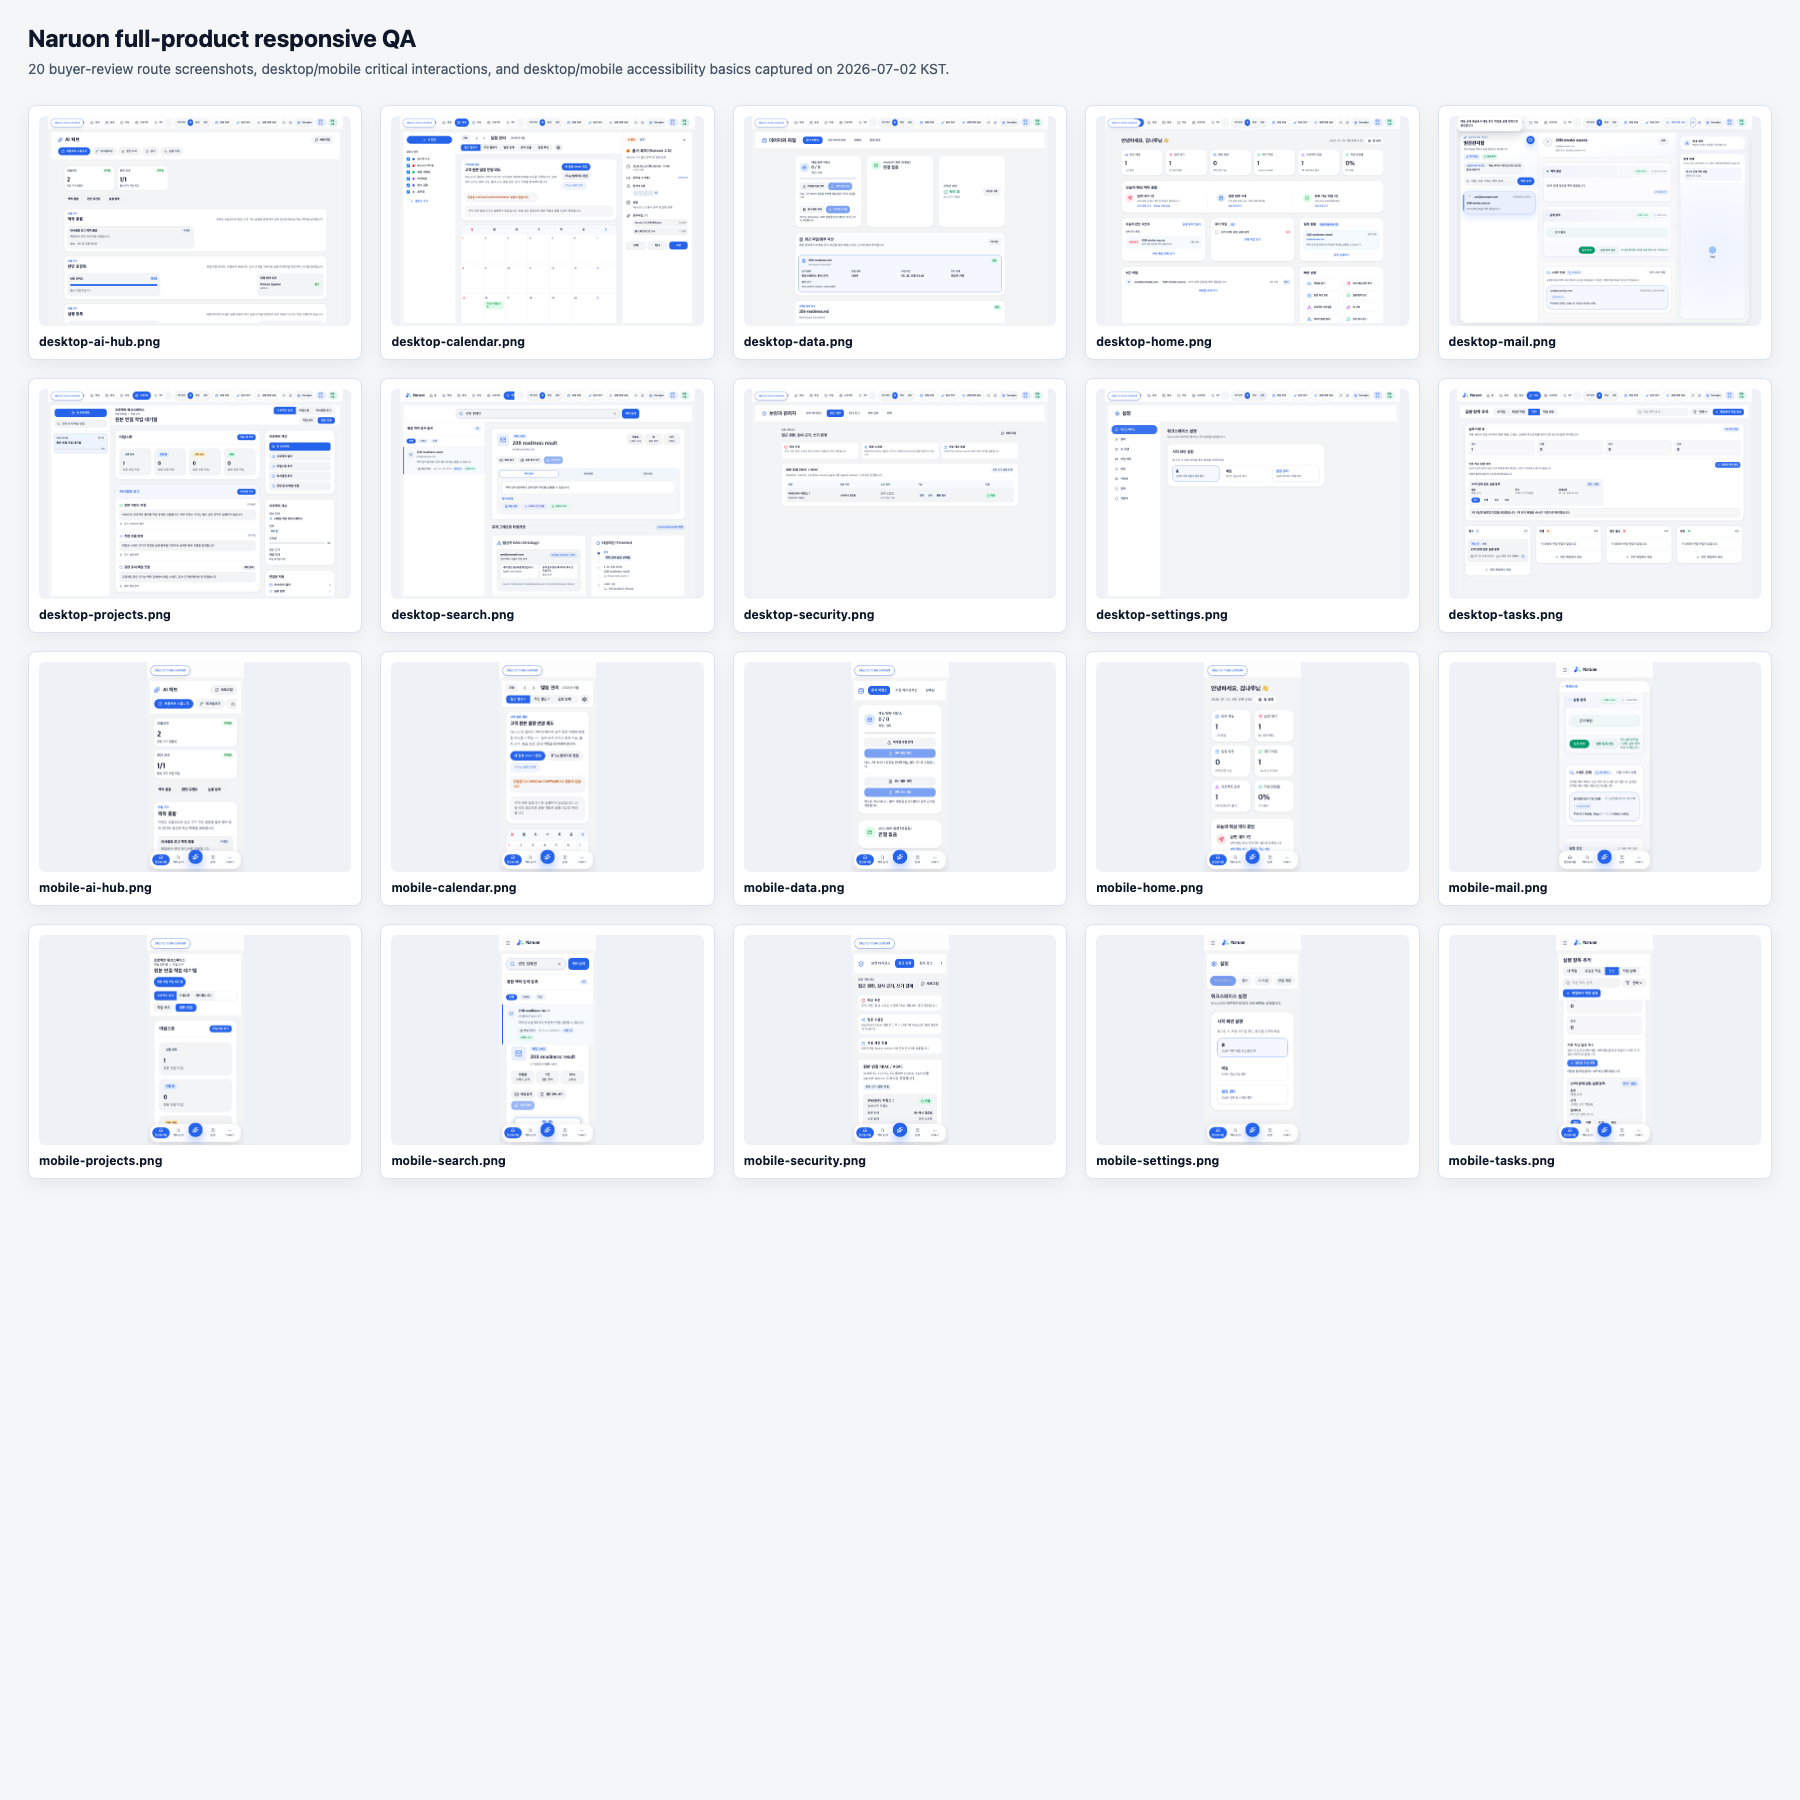
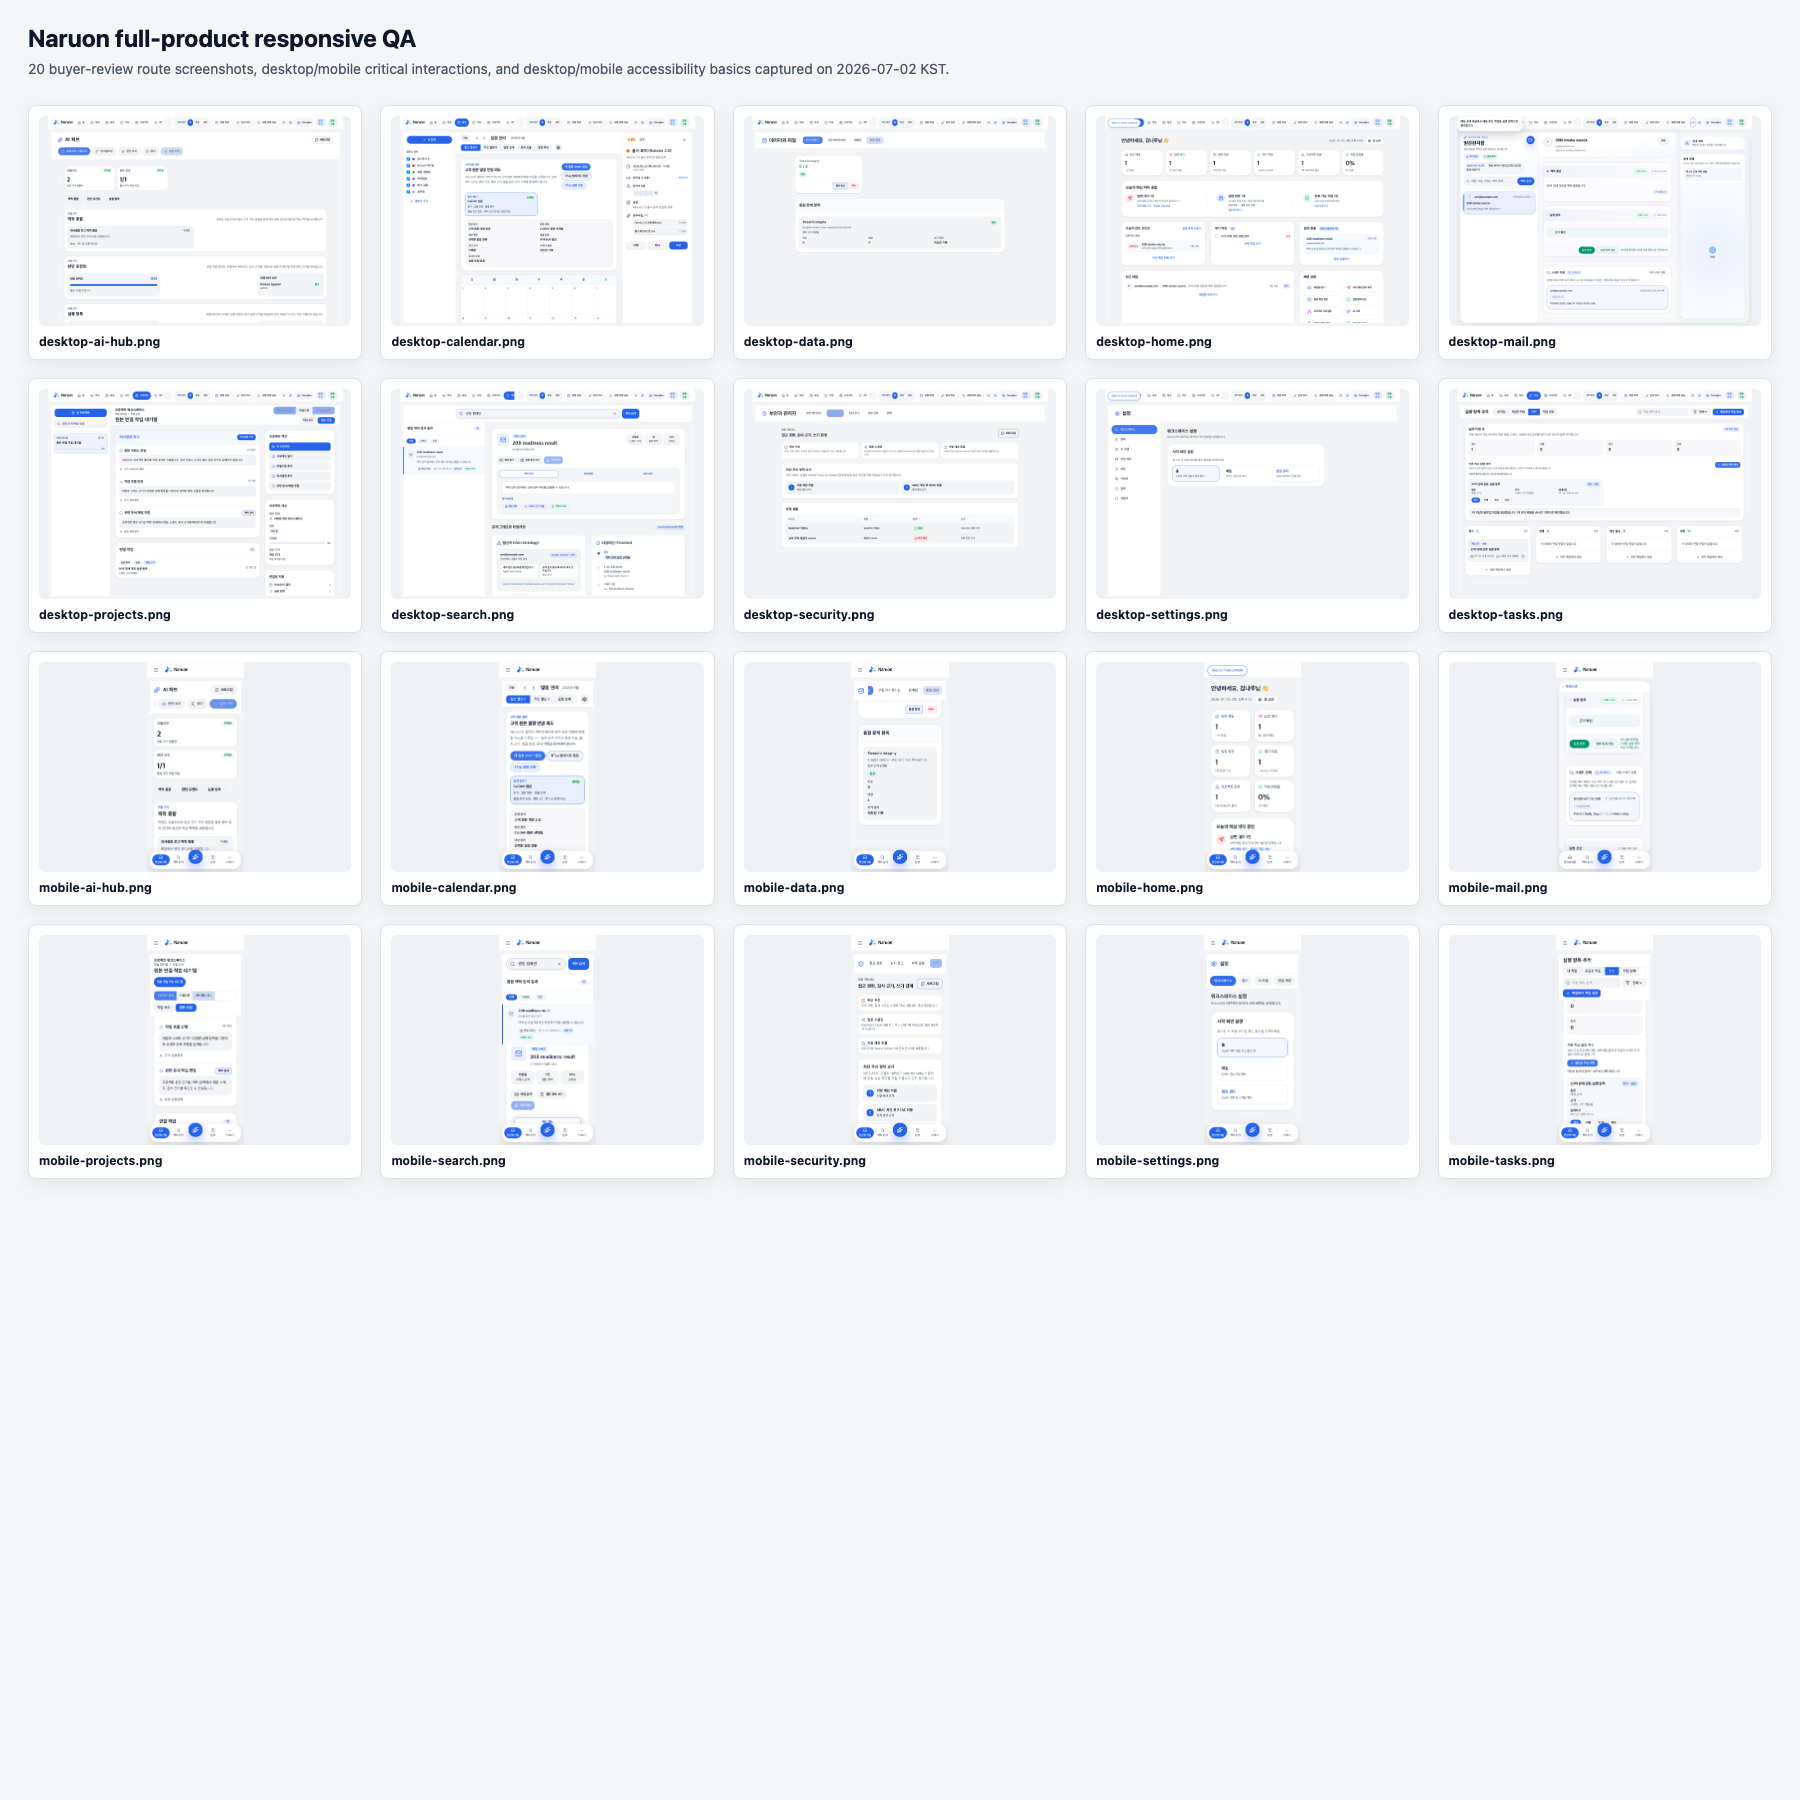
Broaden full product interaction smoke coverage

diff --git a/docs/superpowers/reports/2026-07-02-naruon-20b-responsive-product-design-qa.md b/docs/superpowers/reports/2026-07-02-naruon-20b-responsive-product-design-qa.md
@@ -41,7 +41,7 @@ Result:
 Naruon full-product route smoke passed.
 Routes: /, /mail, /search, /calendar, /tasks, /projects, /data, /ai-hub, /security, /settings
 Viewports: desktop(1440x1024), mobile(390x844)
-Critical interactions: desktop:mail:select-message, desktop:mail:create-source-linked-task, desktop:search:select-result, desktop:search:capture-sender-relationship, desktop:tasks:create-reply-sla-followup, desktop:settings:switch-ai-model-tab, desktop:settings:select-calendar-startup-view, mobile:mail:select-message, mobile:mail:create-source-linked-task, mobile:search:select-result, mobile:search:capture-sender-relationship, mobile:tasks:create-reply-sla-followup, mobile:settings:switch-ai-model-tab, mobile:settings:select-calendar-startup-view
+Critical interactions: desktop:mail:select-message, desktop:mail:create-source-linked-task, desktop:search:select-result, desktop:search:capture-sender-relationship, desktop:calendar:create-writeback-intent, desktop:tasks:create-reply-sla-followup, desktop:projects:open-decision-log, desktop:data:create-embedding-regeneration-intent, desktop:data:open-quality-checks, desktop:ai-hub:open-run-history, desktop:security:open-sharing-review, desktop:security:open-policy-order, desktop:settings:switch-ai-model-tab, desktop:settings:select-calendar-startup-view, mobile:mail:select-message, mobile:mail:create-source-linked-task, mobile:search:select-result, mobile:search:capture-sender-relationship, mobile:calendar:create-writeback-intent, mobile:tasks:create-reply-sla-followup, mobile:projects:open-decision-log, mobile:data:create-embedding-regeneration-intent, mobile:data:open-quality-checks, mobile:ai-hub:open-run-history, mobile:security:open-sharing-review, mobile:security:open-policy-order, mobile:settings:switch-ai-model-tab, mobile:settings:select-calendar-startup-view
 Accessibility checks: home:a11y-basics, mail:a11y-basics, search:a11y-basics, calendar:a11y-basics, tasks:a11y-basics, projects:a11y-basics, data:a11y-basics, ai-hub:a11y-basics, security:a11y-basics, settings:a11y-basics, home:a11y-basics, mail:a11y-basics, search:a11y-basics, calendar:a11y-basics, tasks:a11y-basics, projects:a11y-basics, data:a11y-basics, ai-hub:a11y-basics, security:a11y-basics, settings:a11y-basics
 ```
 
@@ -49,8 +49,8 @@ Figma placement result:
 
 ```text
 QA Notes board created and verified.
-Contact-sheet upload accepted with response imageHash cd7f5034a2651ad47d6154f9053f2a43fd9c4522.
-Figma node 18:7 verified with image fill hash cd7f5034a2651ad47d6154f9053f2a43fd9c4522 and FIT scale mode.
+Contact-sheet upload accepted with response imageHash c6e74f31e31f9cc88dcd545079e851e53aa38be3.
+Figma node 18:7 verified with image fill hash c6e74f31e31f9cc88dcd545079e851e53aa38be3 and FIT scale mode.
 Verification screenshot confirmed the contact sheet and notes are visible inside board node 18:3.
 ```
 
@@ -85,14 +85,14 @@ All desktop screenshots were verified at `1440 x 1024`. All mobile screenshots w
 
 ## Findings
 
-1. Desktop route and selected interaction coverage is now stable enough for buyer technical review.
+1. Desktop route and broad selected interaction coverage is now stable enough for buyer technical review.
    - Evidence: all ten IA routes render expected buyer-visible text and produce non-empty screenshots.
-   - Interaction evidence: mail selection and source-linked task creation, search result relationship capture, task reply-SLA escalation, and settings tab/startup selection all passed.
+   - Interaction evidence: mail source task creation, search relationship capture, calendar writeback intent, task reply-SLA escalation, project decision log, data embedding intent and quality checks, AI Hub run history, security sharing/policy tabs, and settings tab/startup selection all passed.
    - Health: pass for route-level and selected interaction smoke.
 
-2. Mobile route and selected interaction coverage is now stable enough for buyer technical review.
+2. Mobile route and broad selected interaction coverage is now stable enough for buyer technical review.
    - Evidence: all ten IA routes render expected buyer-visible text and produce mobile screenshots.
-   - Interaction evidence: mail selection and source-linked task creation, search result relationship capture, task reply-SLA escalation, and settings tab/startup selection all passed on the mobile viewport.
+   - Interaction evidence: the same selected buyer-critical flows passed on the mobile viewport.
    - Health: pass for route-level and selected interaction smoke.
 
 3. Desktop and mobile accessibility basics now have repeatable smoke evidence.
@@ -105,7 +105,7 @@ All desktop screenshots were verified at `1440 x 1024`. All mobile screenshots w
    - Health: fixed and re-captured.
 
 5. The smoke gate still does not prove full workflow completion.
-   - Evidence: the command now checks expected route text, console errors, not-found states, screenshot creation, selected desktop/mobile interactions, and basic automated accessibility checks.
+   - Evidence: the command now checks expected route text, console errors, not-found states, screenshot creation, broad selected desktop/mobile interactions across nine IA routes, and basic automated accessibility checks.
    - Remaining gap: send, writeback confirmation, graph expansion, permission edits, connector rotation, settings save persistence, and route-specific drawer/modal states need workflow-specific assertions before final procurement readiness.
 
 ## Accessibility Risks
@@ -116,18 +116,18 @@ All desktop screenshots were verified at `1440 x 1024`. All mobile screenshots w
 
 ## Product Design Assessment
 
-The current branch now has repeatable desktop and mobile visual evidence for the ten buyer-review IA routes, selected desktop/mobile critical-interaction smoke evidence, and basic automated accessibility evidence across desktop and mobile. This moves the package from route-existence evidence to responsive route-level evidence with partial workflow and accessibility proof, but it does not prove full sale readiness.
+The current branch now has repeatable desktop and mobile visual evidence for the ten buyer-review IA routes, broad selected desktop/mobile critical-interaction smoke evidence across nine IA routes, and basic automated accessibility evidence across desktop and mobile. This moves the package from route-existence evidence to responsive route-level evidence with partial workflow and accessibility proof, but it does not prove full sale readiness.
 
 The remaining Product Design P0/P1 work is:
 
-1. Expand interaction-state coverage to the remaining important buyer flows:
+1. Expand interaction-state coverage from selected actions to complete workflow completion paths:
    - mail reply draft and source drawer
    - search result source drawer and graph expansion
-   - calendar writeback intent
+   - calendar writeback confirmation states
    - task completion
    - project evidence opening
-   - data quality action
-   - AI Hub run/log detail
+   - data WebDAV materialization and document action result variants
+   - AI Hub run/log detail beyond tab navigation
    - security permission review
    - settings save persistence and connector rotation
 2. Expand accessibility evidence beyond the basic gate:

diff --git a/docs/superpowers/reports/2026-07-02-naruon-20b-current-state-audit.md b/docs/superpowers/reports/2026-07-02-naruon-20b-current-state-audit.md
@@ -219,7 +219,7 @@ Acceptable later extraction:
 P0 for 20B final sale readiness:
 
 - Figma required pages were repaired through `use_figma`, but full screen coverage and durable QA screenshots for every buyer flow are not complete.
-- Full ten-area Product Design route audit now has desktop/mobile evidence, selected desktop/mobile critical-interaction evidence, and basic automated accessibility evidence, but full interaction-state and assistive-technology audit is not complete.
+- Full ten-area Product Design route audit now has desktop/mobile evidence, broad selected desktop/mobile critical-interaction evidence across nine IA routes, and basic automated accessibility evidence, but complete workflow-state and assistive-technology audit is not complete.
 - Production deployment and rollback evidence is not packaged.
 - Live provider-send and provider-write execution evidence is incomplete.
 - Issue #634 has a branch-level fix, but remains open as a governance risk until merged and proven on the trusted base branch.
@@ -228,11 +228,11 @@ P0 for 20B final sale readiness:
 
 P1 for buyer technical review:
 
-- Full-product smoke covers all ten IA routes on localhost, supports desktop/mobile capture through `NARUON_FULL_PRODUCT_VIEWPORTS=desktop,mobile`, and is wired into the branch CI workflow with desktop default. It now asserts selected desktop/mobile buyer interactions for mail, search, tasks, and settings, plus basic accessibility checks for visible duplicate IDs, visible interactive accessible names, and keyboard Tab focus entry.
+- Full-product smoke covers all ten IA routes on localhost, supports desktop/mobile capture through `NARUON_FULL_PRODUCT_VIEWPORTS=desktop,mobile`, and is wired into the branch CI workflow with desktop default. It now asserts selected desktop/mobile buyer interactions for mail, search, calendar, tasks, projects, data, AI Hub, security, and settings, plus basic accessibility checks for visible duplicate IDs, visible interactive accessible names, and keyboard Tab focus entry.
 - Mobile Settings startup-view cards were fixed from a 3-column mobile grid to `grid-cols-1 sm:grid-cols-3` after responsive QA found awkward Korean label wrapping.
 - Product events do not yet cover full-product funnels beyond mail/search.
 - External analytics destination, retention, and consent are not approved.
-- Figma `Sales Demo` has current evidence and `QA Notes` now contains the desktop/mobile contact sheet with selected desktop/mobile interaction-state and basic accessibility evidence; detailed workflow-state and assistive-technology evidence remains incomplete.
+- Figma `Sales Demo` has current evidence and `QA Notes` now contains the desktop/mobile contact sheet with broad selected desktop/mobile interaction-state and basic accessibility evidence; complete workflow-state and assistive-technology evidence remains incomplete.
 
 Non-blockers:
 
@@ -244,7 +244,7 @@ Non-blockers:
 
 1. Repair Figma page structure without Code Connect.
 2. Confirm the branch CI full-product smoke result and tune runtime or browser install cost if needed.
-3. Expand critical interaction-state smoke assertions beyond the current mail/search/tasks/settings subset.
+3. Expand smoke assertions from selected actions to complete workflow completion paths and result variants.
 4. Extend analytics and ROI reports without claiming live KPI values.
 5. Merge the issue #634 governance patch and close the issue only after trusted-base remote evidence proves blocker comments fail the governance check.
 6. Review buyer package, demo script, security questionnaire, and SLA/support drafts with buyer/legal/security owners.
